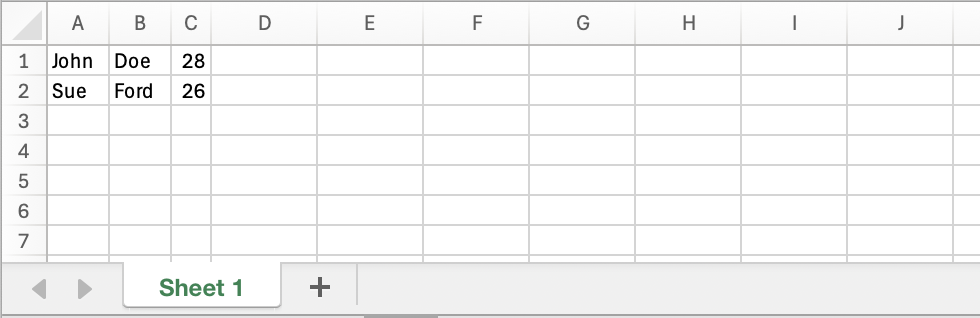
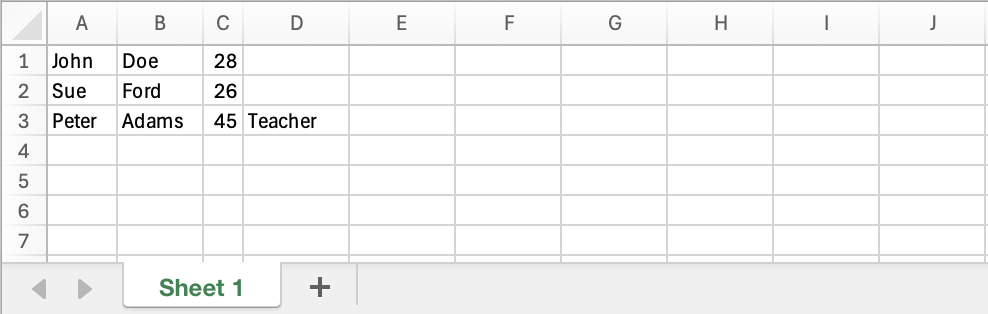
updated excel doc

diff --git a/doc/readme/excel.md b/doc/readme/excel.md
@@ -38,7 +38,7 @@ libraries:
        * [Supported data types](#supported-data-types)
        * [Writing 2D vector data](#writing-2d-tabular-data)
        * [Writing to individual cells](#writing-to-individual-cells)
-       * [Insert, Copy and Delete Rows](#insert-copy-and-delete-rows)
+       * [Insert, Copy, Clear and Delete Rows](#insert-copy-clear-and-delete-rows)
        * [Merge Cells](#merge-cells)
        * [Using formulas](#using-formulas)
        * [Images](#images)
@@ -326,7 +326,7 @@ The functions `excel/write-value` To write values to cells. The row and col numb
 
 
 
-#### Insert, Copy and Delete Rows
+#### Insert, Copy, Clear and Delete Rows
 
 ```clojure
 (do
@@ -343,6 +343,10 @@ The functions `excel/write-value` To write values to cells. The row and col numb
       (excel/write-value sheet 2 1 "Sue")
       (excel/write-value sheet 2 2 "Ford")
       (excel/write-value sheet 2 3 26)
+      (excel/write-value sheet 3 1 "Peter")
+      (excel/write-value sheet 3 2 "Adams")
+      (excel/write-value sheet 3 3 45)
+      (excel/write-value sheet 3 4 "Teacher")
       (excel/auto-size-columns (excel/sheet wbook "Sheet 1"))
       (excel/write->file wbook "sample.xlsx")))
      
@@ -353,8 +357,10 @@ The functions `excel/write-value` To write values to cells. The row and col numb
      (excel/copy-row-to-end sheet 1)
      (excel/copy-row-to-end sheet 1)
      (excel/copy-row-to-end sheet 1)
-     (excel/insert-empty-row sheet 2)
-     (excel/delete-row sheet 3)
+     (excel/copy-row sheet 2 3)
+     (excel/clear-row sheet 4)
+     (excel/delete-row sheet 5)
+     (excel/insert-empty-row sheet 2)    
      (excel/write->file wbook "sample1.xlsx")))
 ```
 
